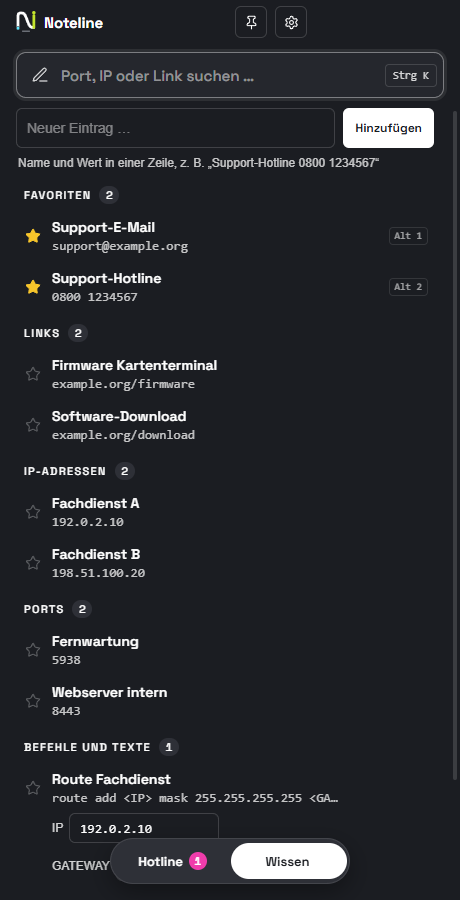
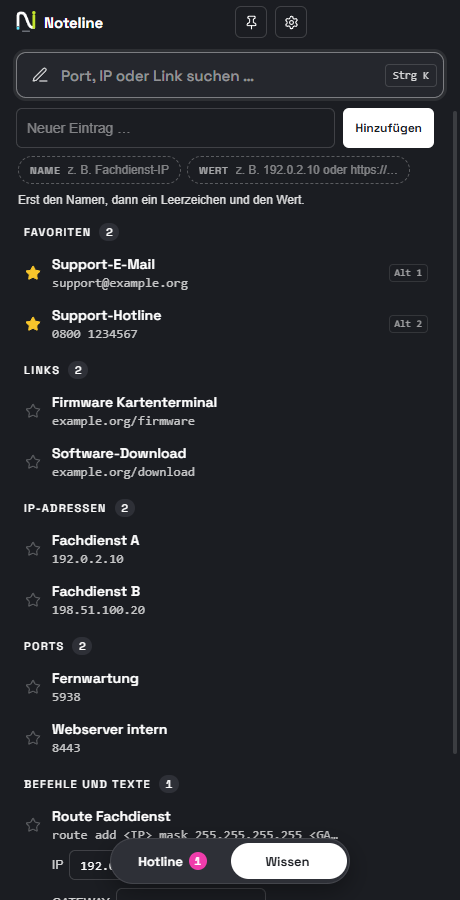
docs: README, Screenshots und Changelog für 1.2.1

diff --git a/CHANGELOG.md b/CHANGELOG.md
@@ -3,6 +3,14 @@
 Alle nennenswerten Änderungen an Noteline. Format nach [Keep a Changelog](https://keepachangelog.com/de/1.1.0/),
 Versionierung nach [Semantic Versioning](https://semver.org/lang/de/).
 
+## [1.2.1] – 2026-11-06
+
+### Verbessert
+- **Neuer Wissens-Eintrag auf einen Blick verständlich:** Unter dem Eingabefeld zeigen zwei Anzeigen live, was als
+  **Name** und was als **Wert** erkannt wird. Sie leuchten auf, sobald sie belegt sind, und die Wert-Anzeige nennt
+  die Art (z. B. IP-Adresse). Nach dem Namen und einem Leerzeichen erscheinen Vorschläge mit Beispielen, was als
+  Wert passt: Link, IP-Adresse, Telefon, E-Mail, Port oder Befehl. Eine Zeile darunter sagt, was Enter speichert.
+
 ## [1.2.0] – 2026-11-06
 
 ### Neu
@@ -79,6 +87,7 @@ Erste veröffentlichte Version. Neuaufbau des Prototyps „Hotline-Notizen“ na
 - Eine ins Fenster gezogene Datei ersetzt nicht mehr die App-Oberfläche.
 - Strengere Sicherheitseinstellungen (Sandbox, Content-Security-Policy ohne Inline-Skripte).
 
+[1.2.1]: https://github.com/pascatotalx/noteline/releases/tag/v1.2.1
 [1.2.0]: https://github.com/pascatotalx/noteline/releases/tag/v1.2.0
 [1.1.0]: https://github.com/pascatotalx/noteline/releases/tag/v1.1.0
 [1.0.1]: https://github.com/pascatotalx/noteline/releases/tag/v1.0.1

diff --git a/README.md b/README.md
@@ -58,6 +58,7 @@ Was sich geändert hat, steht im [Changelog](CHANGELOG.md) und bei jedem [Releas
 ### Wissen
 - **Eine Zeile reicht:** `Support-Hotline 0800 1234567` oder `Download https://…` eintippen, Enter. Noteline erkennt
   Telefonnummer, E-Mail, Link, IP-Adresse, Port oder Befehl und sortiert den Eintrag selbst ein, ohne Gruppen.
+  Eine Live-Vorschau zeigt beim Tippen, was als Name und was als Wert erkannt wird, und schlägt passende Werte vor.
 - **Ein Klick kopiert** den Wert. Links lassen sich öffnen, E-Mail-Adressen direkt anschreiben.
 - **Favoriten** mit dem Stern stehen ganz oben und sind mit **Alt+1 bis Alt+9** ohne Suchen kopierbar.
 - **Strg+Enter** in der Suche kopiert den besten Treffer.
